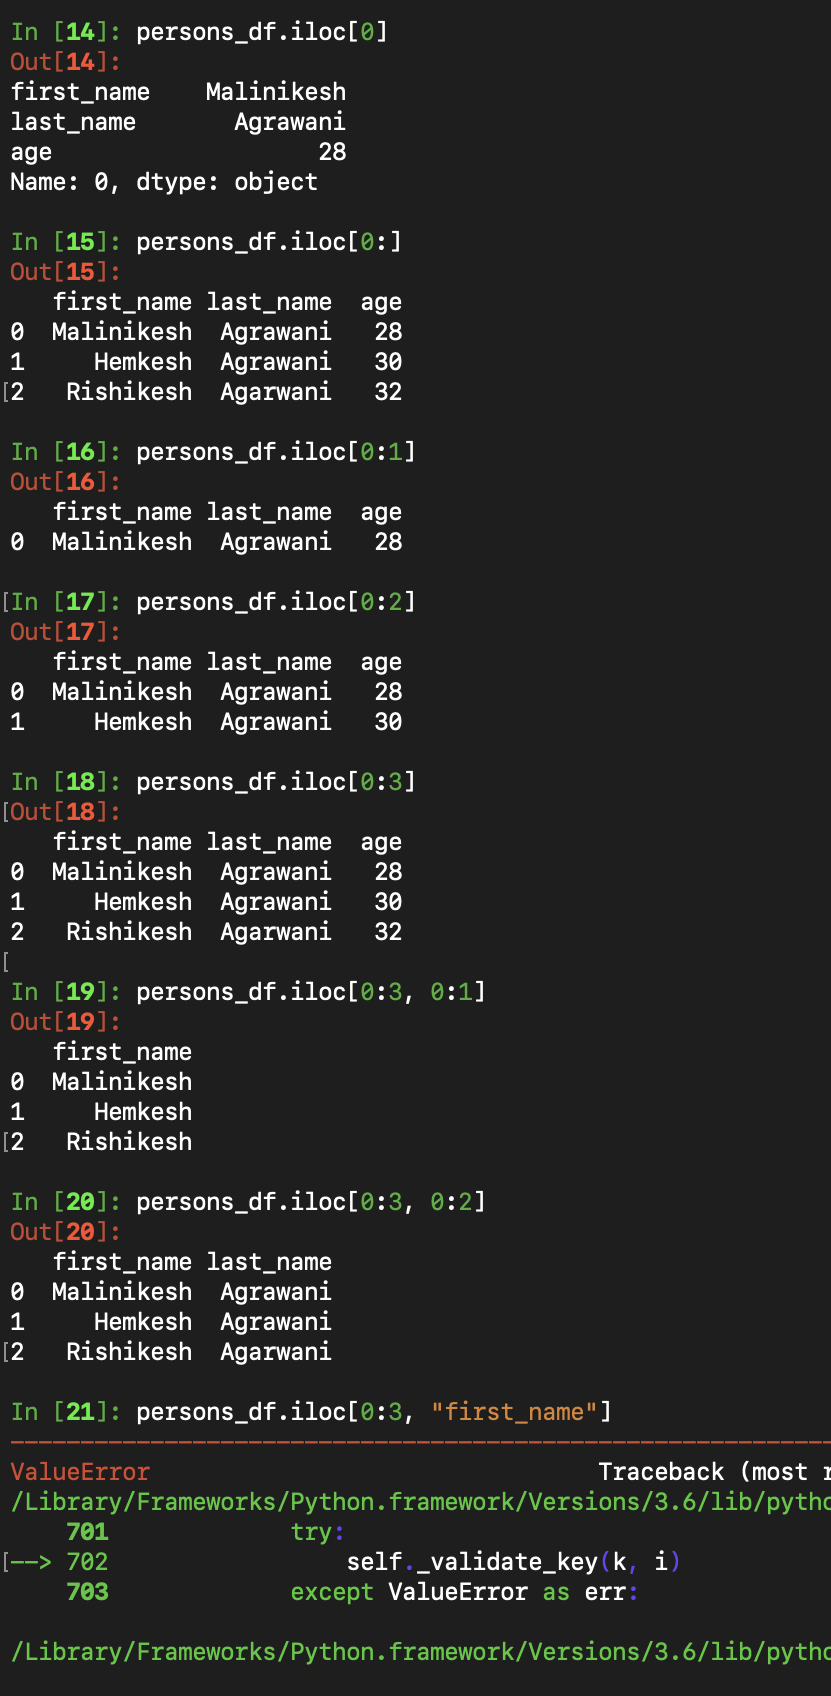
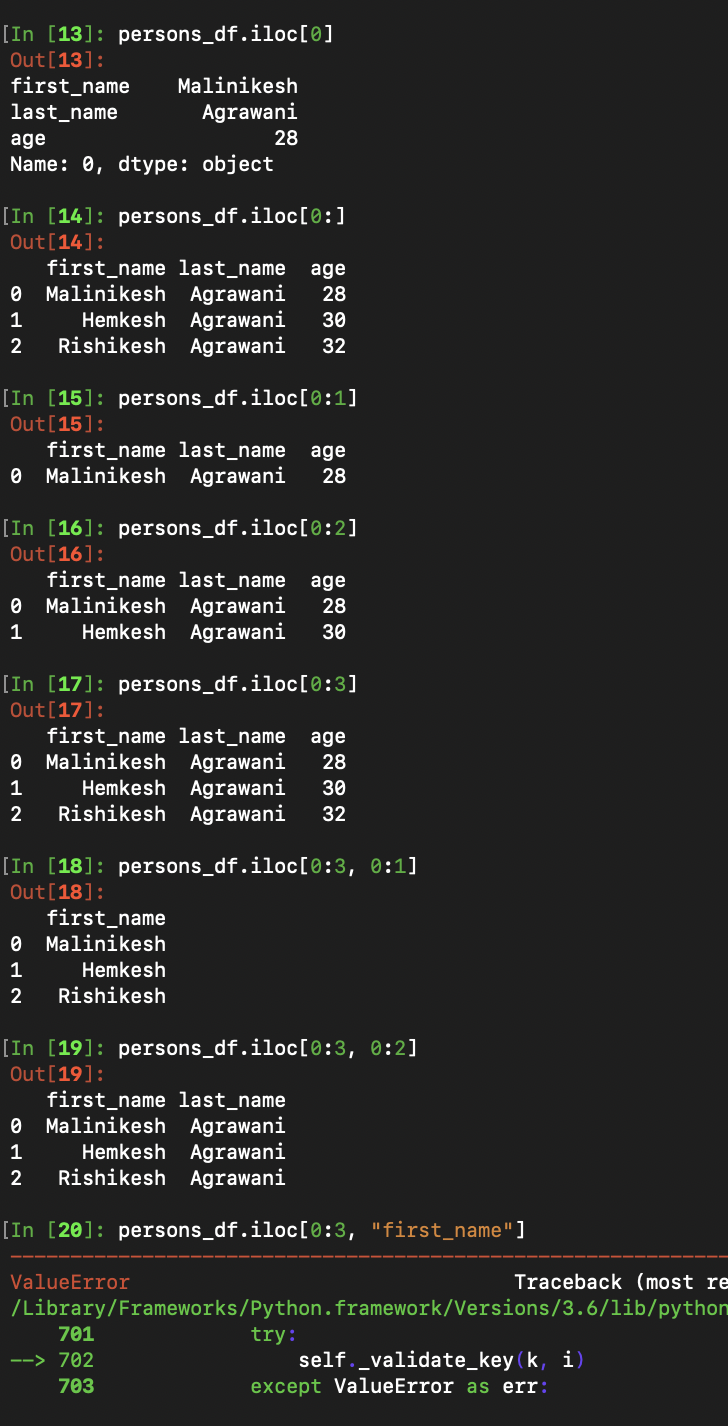
Update existing images with new content

Changed region(s): [[0.0, 0.0, 1.0, 0.9874], [0.5137, 0.5554, 0.5742, 0.6171], [0.5137, 0.7097, 0.5742, 0.7405]]

diff --git a/src/markdowns/pandas_library_examples.md b/src/markdowns/pandas_library_examples.md
@@ -5,7 +5,7 @@ In [1]: import pandas as pd
 
 In [2]: persons_df = pd.DataFrame({
    ...:     "first_name": ["Malinikesh", "Hemkesh", "Rishikesh"],
-   ...:     "last_name": ["Agrawani", "Agrawani", "Agarwani"],
+   ...:     "last_name": ["Agrawani", "Agrawani", "Agrawani"],
    ...:     "age": [28, 30, 32],
    ...: })
 
@@ -14,7 +14,7 @@ Out[3]:
    first_name last_name  age
 0  Malinikesh  Agrawani   28
 1     Hemkesh  Agrawani   30
-2   Rishikesh  Agarwani   32
+2   Rishikesh  Agrawani   32
 
 In [4]: persons_df.loc[0] # 1st row
 Out[4]: 
@@ -47,13 +47,13 @@ In [8]: persons_df.loc[[1, 2], "first_name":"age"]
 Out[8]: 
   first_name last_name  age
 1    Hemkesh  Agrawani   30
-2  Rishikesh  Agarwani   32
+2  Rishikesh  Agrawani   32
 
 In [9]: persons_df.loc[[1, 2], "first_name":"last_name"]
 Out[9]: 
   first_name last_name
 1    Hemkesh  Agrawani
-2  Rishikesh  Agarwani
+2  Rishikesh  Agrawani
 
 In [10]: persons_df.loc[0:1, "first_name":"last_name"]
 Out[10]: 
@@ -66,14 +66,14 @@ Out[11]:
    first_name last_name
 0  Malinikesh  Agrawani
 1     Hemkesh  Agrawani
-2   Rishikesh  Agarwani
+2   Rishikesh  Agrawani
 
 In [12]: persons_df.loc[0:, "first_name":]
 Out[12]: 
    first_name last_name  age
 0  Malinikesh  Agrawani   28
 1     Hemkesh  Agrawani   30
-2   Rishikesh  Agarwani   32
+2   Rishikesh  Agrawani   32
 
 In [13]: 
 ```
@@ -94,7 +94,7 @@ Out[15]:
    first_name last_name  age
 0  Malinikesh  Agrawani   28
 1     Hemkesh  Agrawani   30
-2   Rishikesh  Agarwani   32
+2   Rishikesh  Agrawani   32
 
 In [16]: persons_df.iloc[0:1]
 Out[16]: 
@@ -112,7 +112,7 @@ Out[18]:
    first_name last_name  age
 0  Malinikesh  Agrawani   28
 1     Hemkesh  Agrawani   30
-2   Rishikesh  Agarwani   32
+2   Rishikesh  Agrawani   32
 
 In [19]: persons_df.iloc[0:3, 0:1]
 Out[19]: 
@@ -126,7 +126,7 @@ Out[20]:
    first_name last_name
 0  Malinikesh  Agrawani
 1     Hemkesh  Agrawani
-2   Rishikesh  Agarwani
+2   Rishikesh  Agrawani
 
 In [21]: persons_df.iloc[0:3, "first_name"]
 ---------------------------------------------------------------------------
